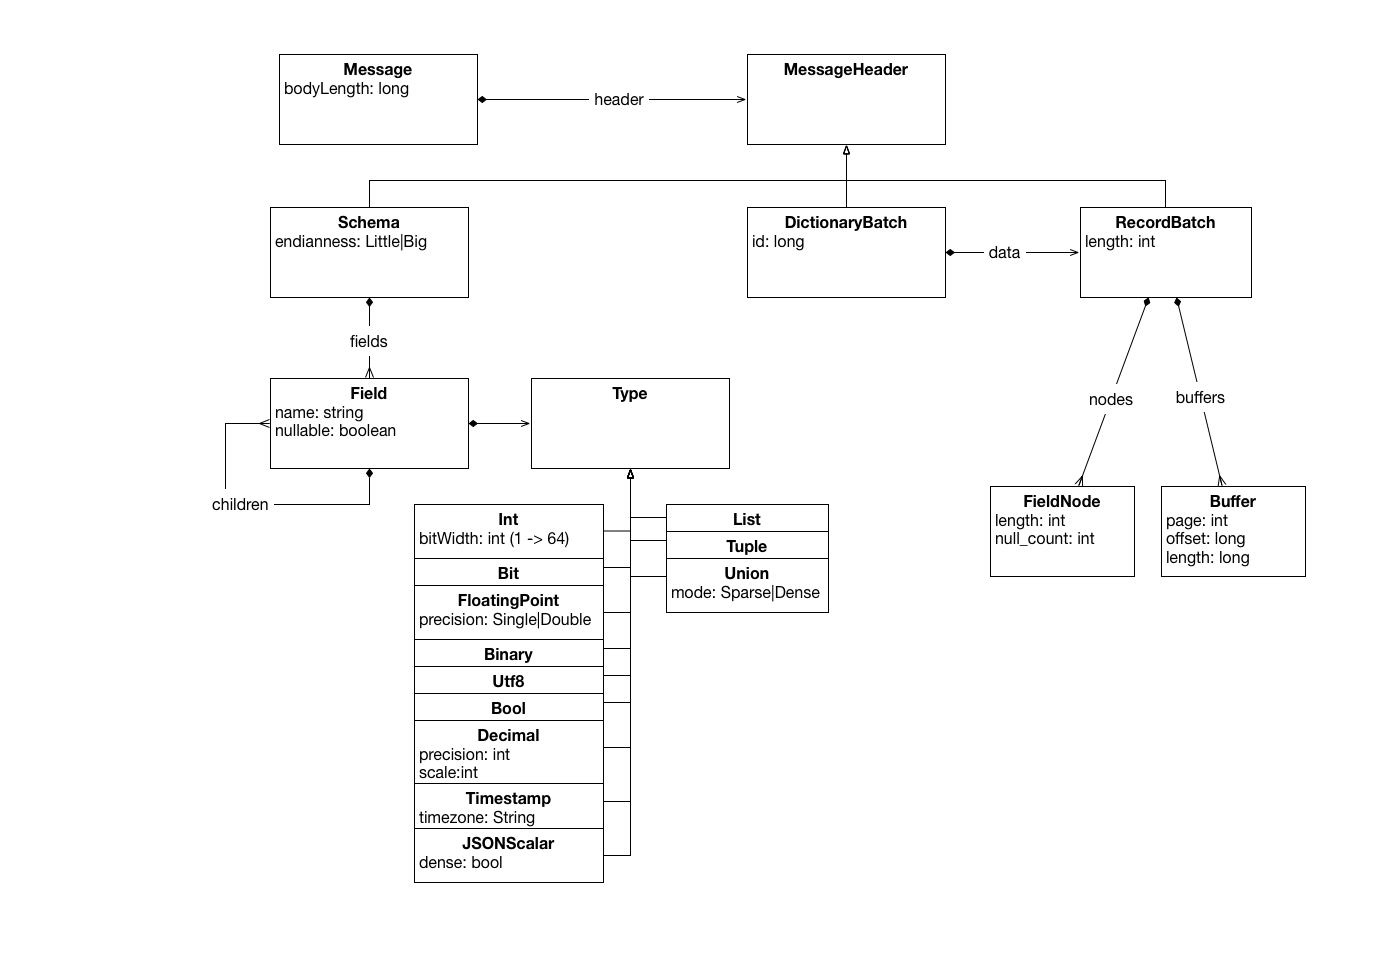
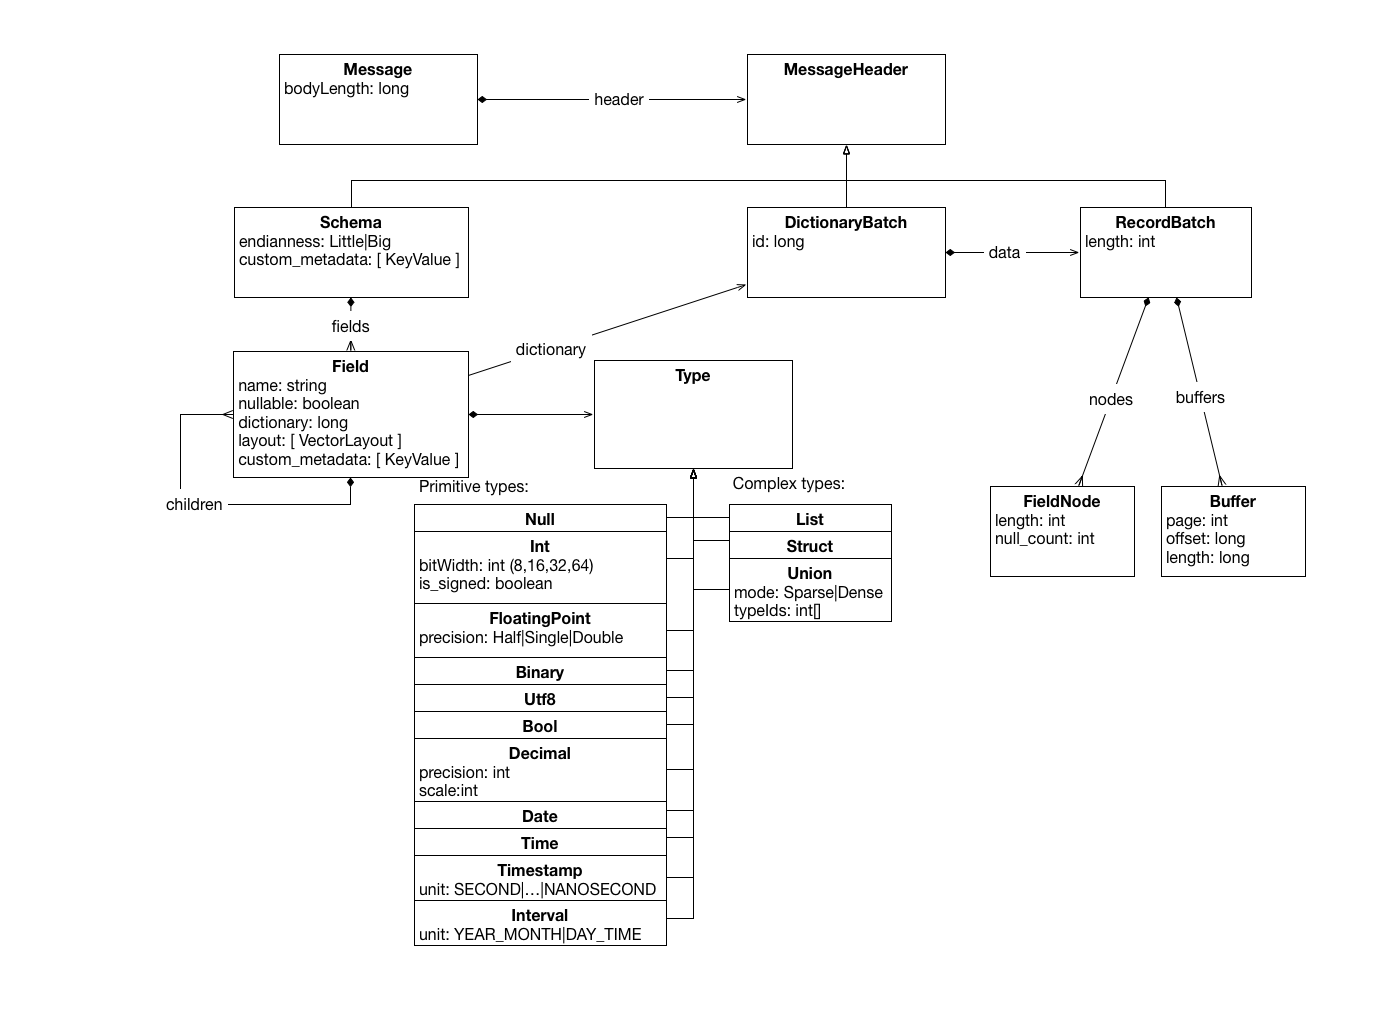
ARROW-324: Update arrow metadata diagram
Author: Julien Le Dem <julien@dremio.com>

Closes #161 from julienledem/diagram and squashes the following commits:

f018cf5 [Julien Le Dem] ARROW-324: Update arrow metadata diagram

diff --git a/format/Metadata.md b/format/Metadata.md
@@ -46,7 +46,17 @@ table Field {
   name: string;
   nullable: bool;
   type: Type;
+  // present only if the field is dictionary encoded
+  // will point to a dictionary provided by a DictionaryBatch message
+  dictionary: long;
+  // children apply only to Nested data types like Struct, List and Union
   children: [Field];
+  /// layout of buffers produced for this type (as derived from the Type)
+  /// does not include children
+  /// each recordbatch will return instances of those Buffers.
+  layout: [ VectorLayout ];
+  // User-defined metadata
+  custom_metadata: [ KeyValue ];
 }
 ```
 
